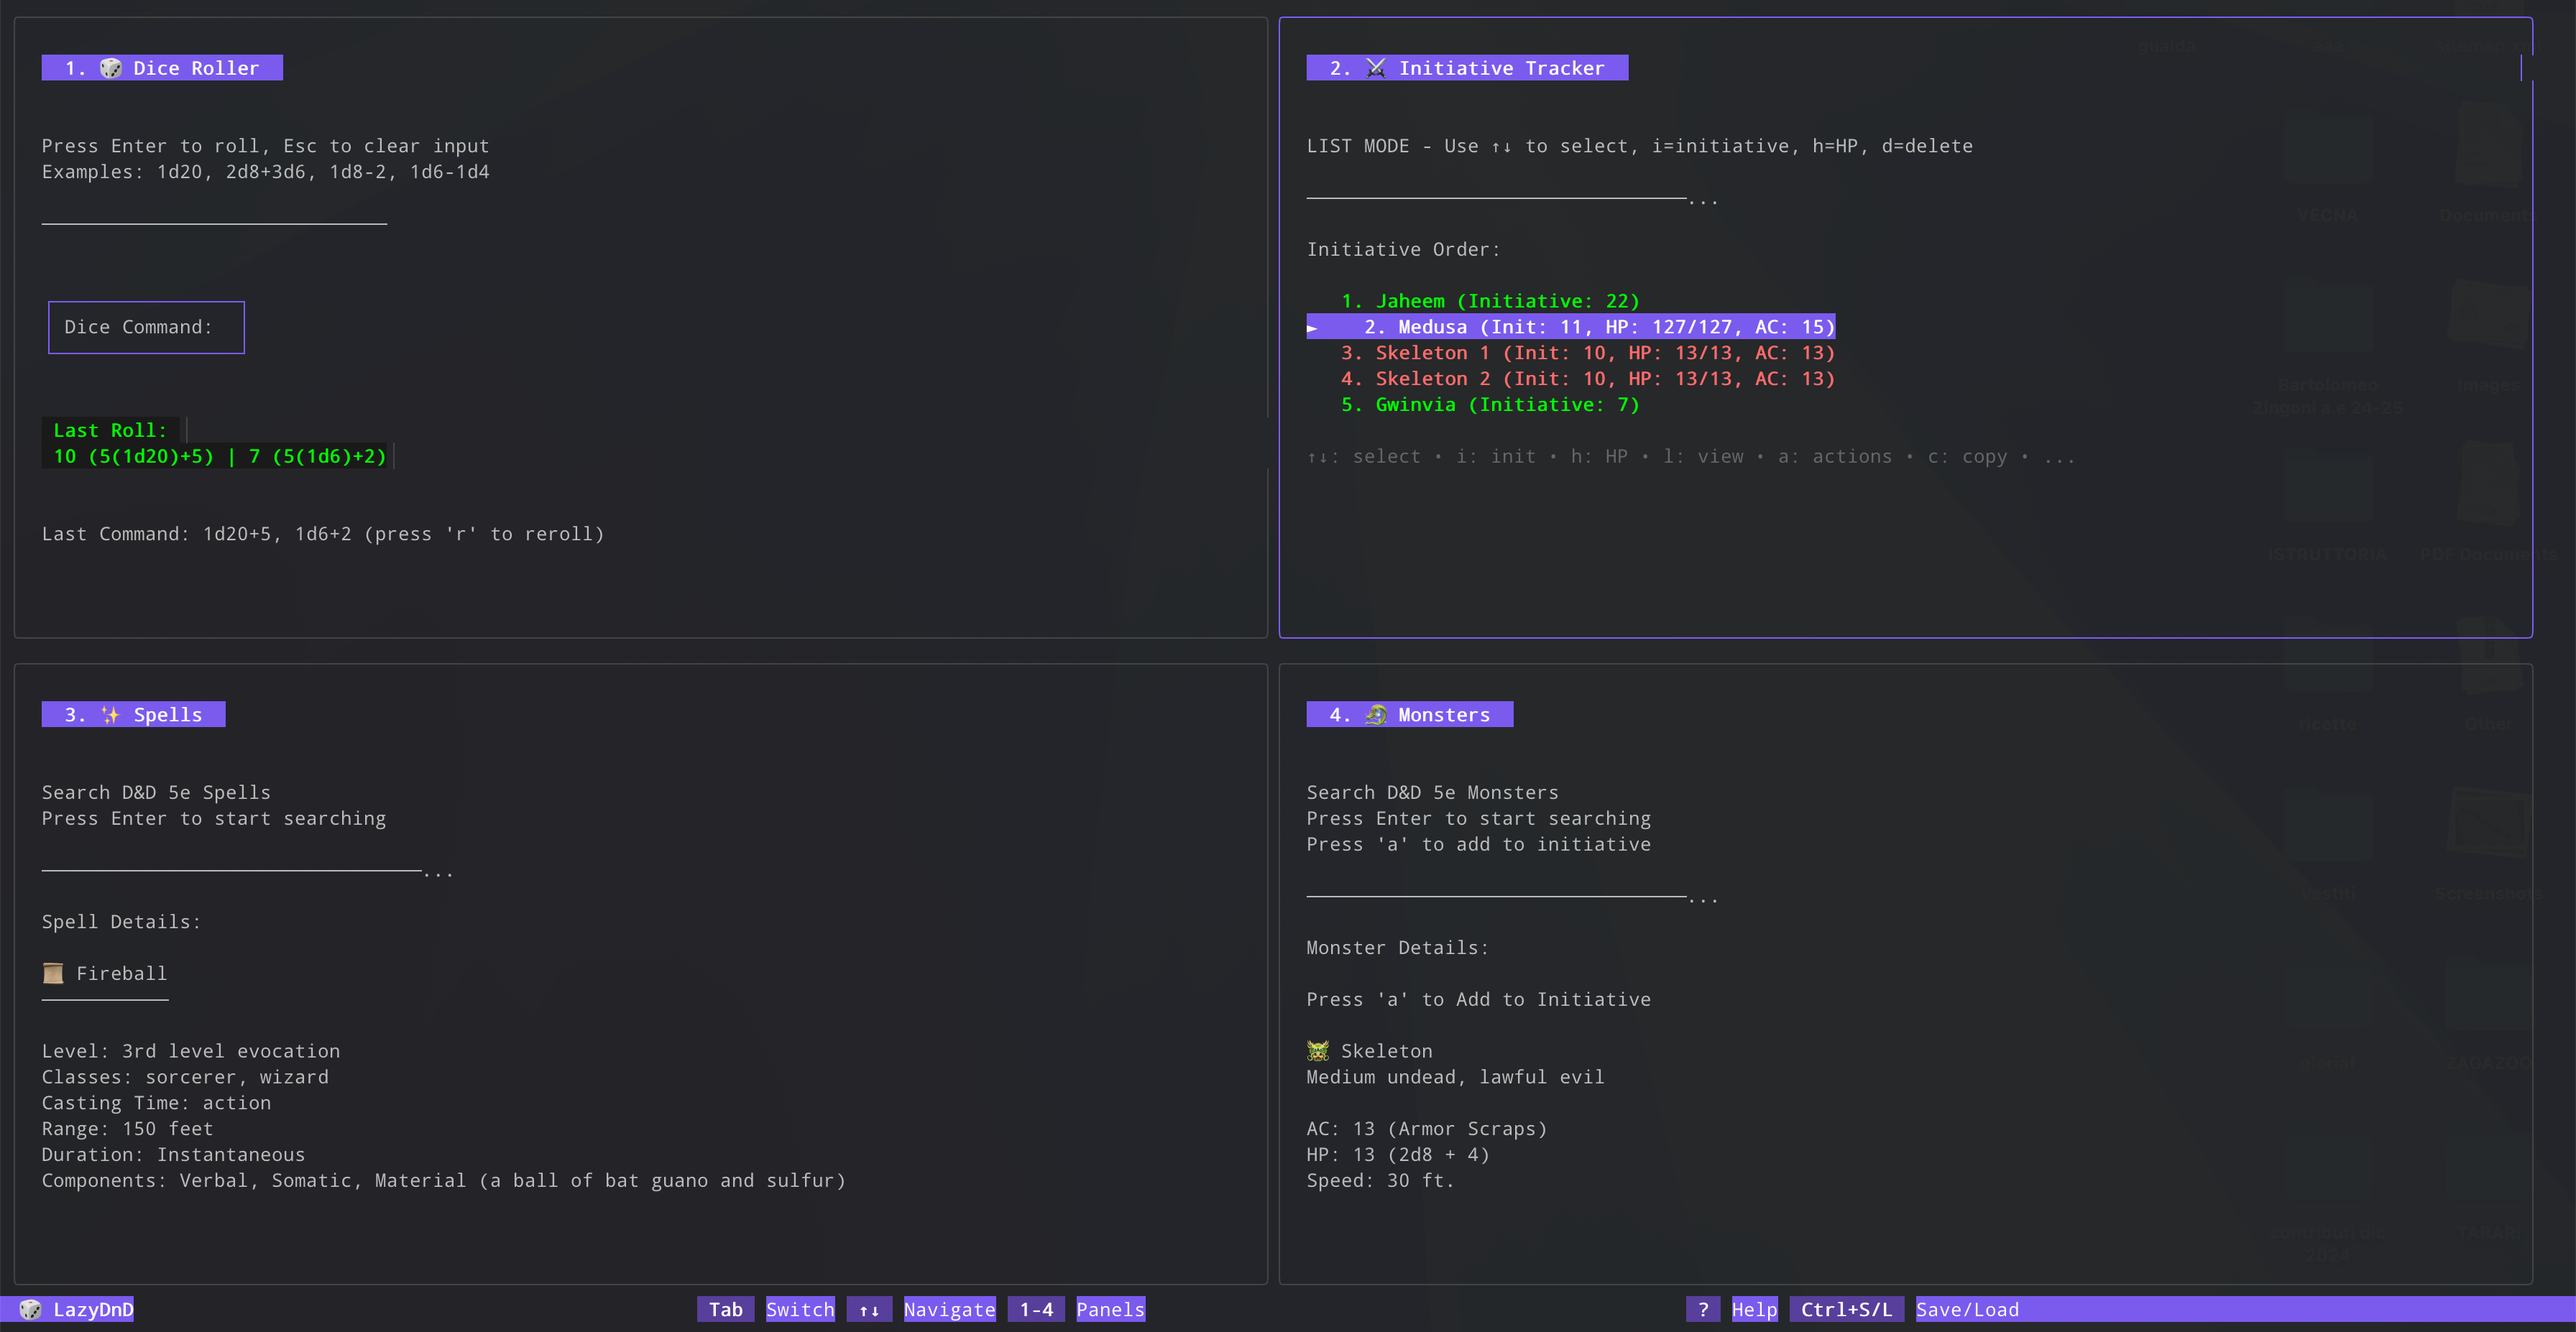
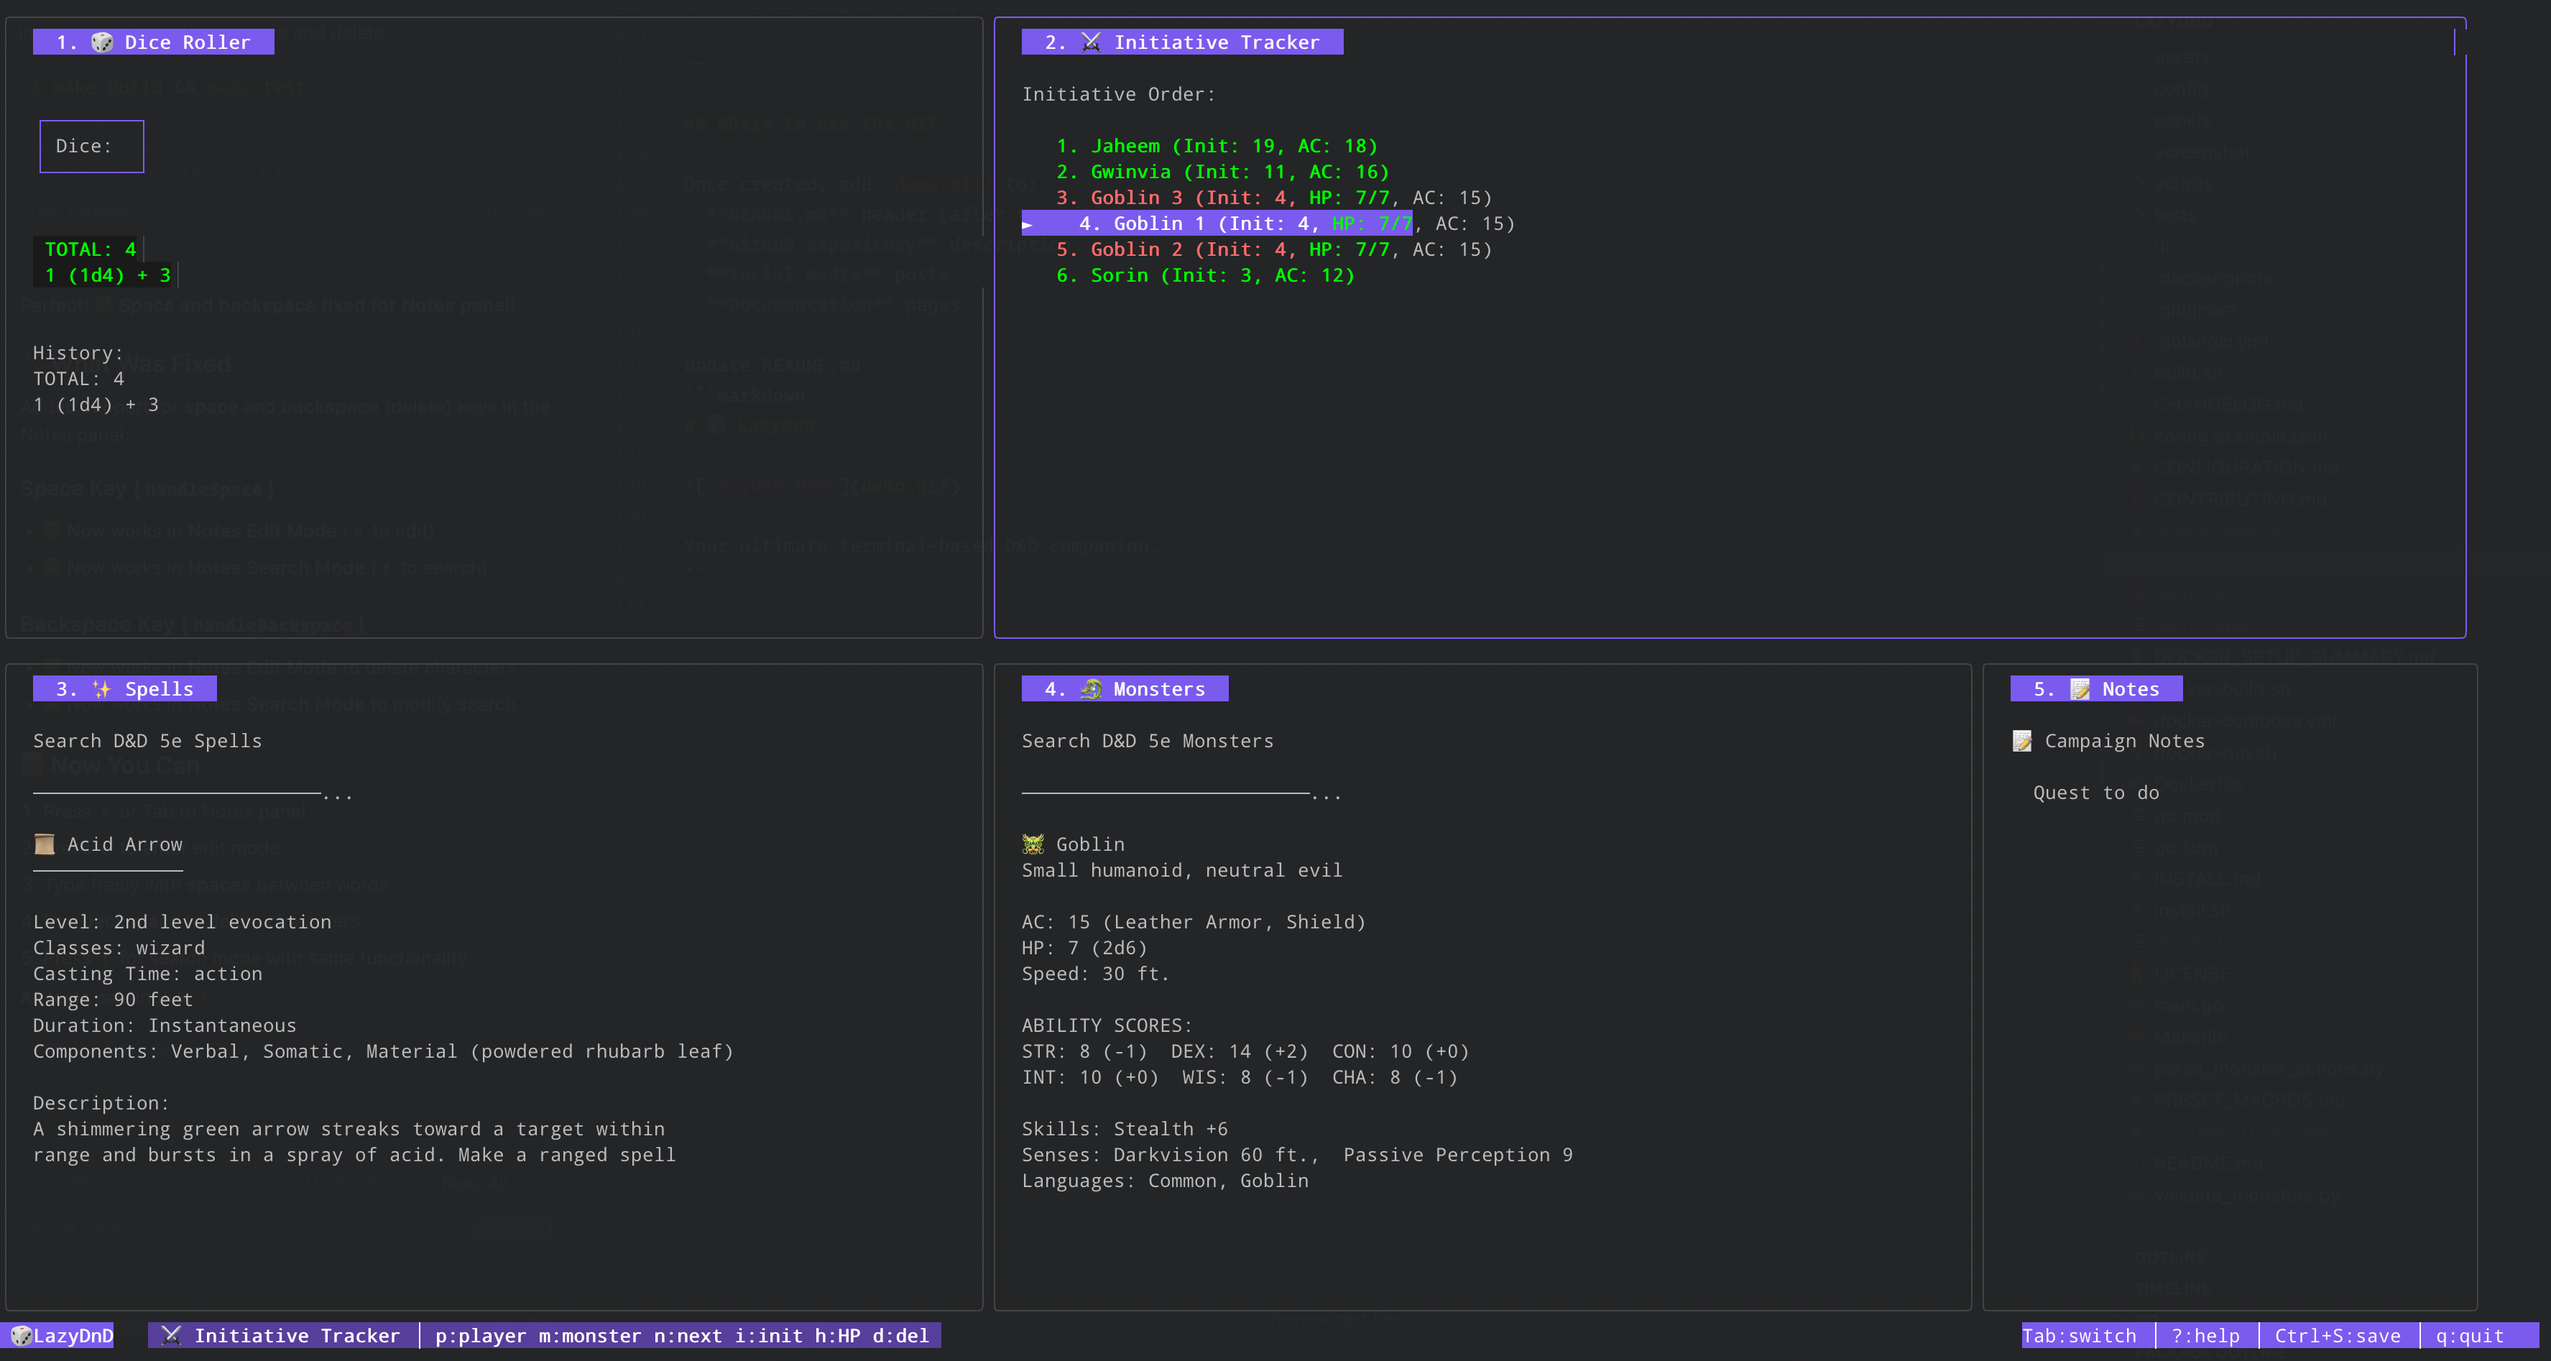
update readme

diff --git a/README.md b/README.md
@@ -302,6 +302,8 @@ See [PRESET_MACROS.md](PRESET_MACROS.md) for full list!
 - ✅ **Multi-Target Damage/Healing**: Apply damage or healing to multiple targets simultaneously
 - ✅ **Campaign Save**: All initiative data saved with campaign
 
+![LazyD&D Attack](screenshot/condition.png)
+
 **Conditions Tracker:**
 Track status effects (Poisoned, Stunned, Paralyzed, etc.) on any creature:
 1. **Conditions show inline in initiative list** with emoji icons (e.g., "Goblin 1 (HP: 7/7, AC: 13) 🤢😱")
@@ -393,6 +395,8 @@ The HP text changes color based on the monster's health percentage, making it ea
    - Armor Class (AC)
    - Initiative value (or 'r' to roll)
 3. **Add Monster from Panel**: Search in Monster panel, press 'a' to add with full stats and actions
+
+![LazyD&D Attack](screenshot/savingthrows.png)
 
 **Saving Throws & Skill Checks:**
 When a monster is added from the Monster panel, you can roll all saving throws and skill checks:
